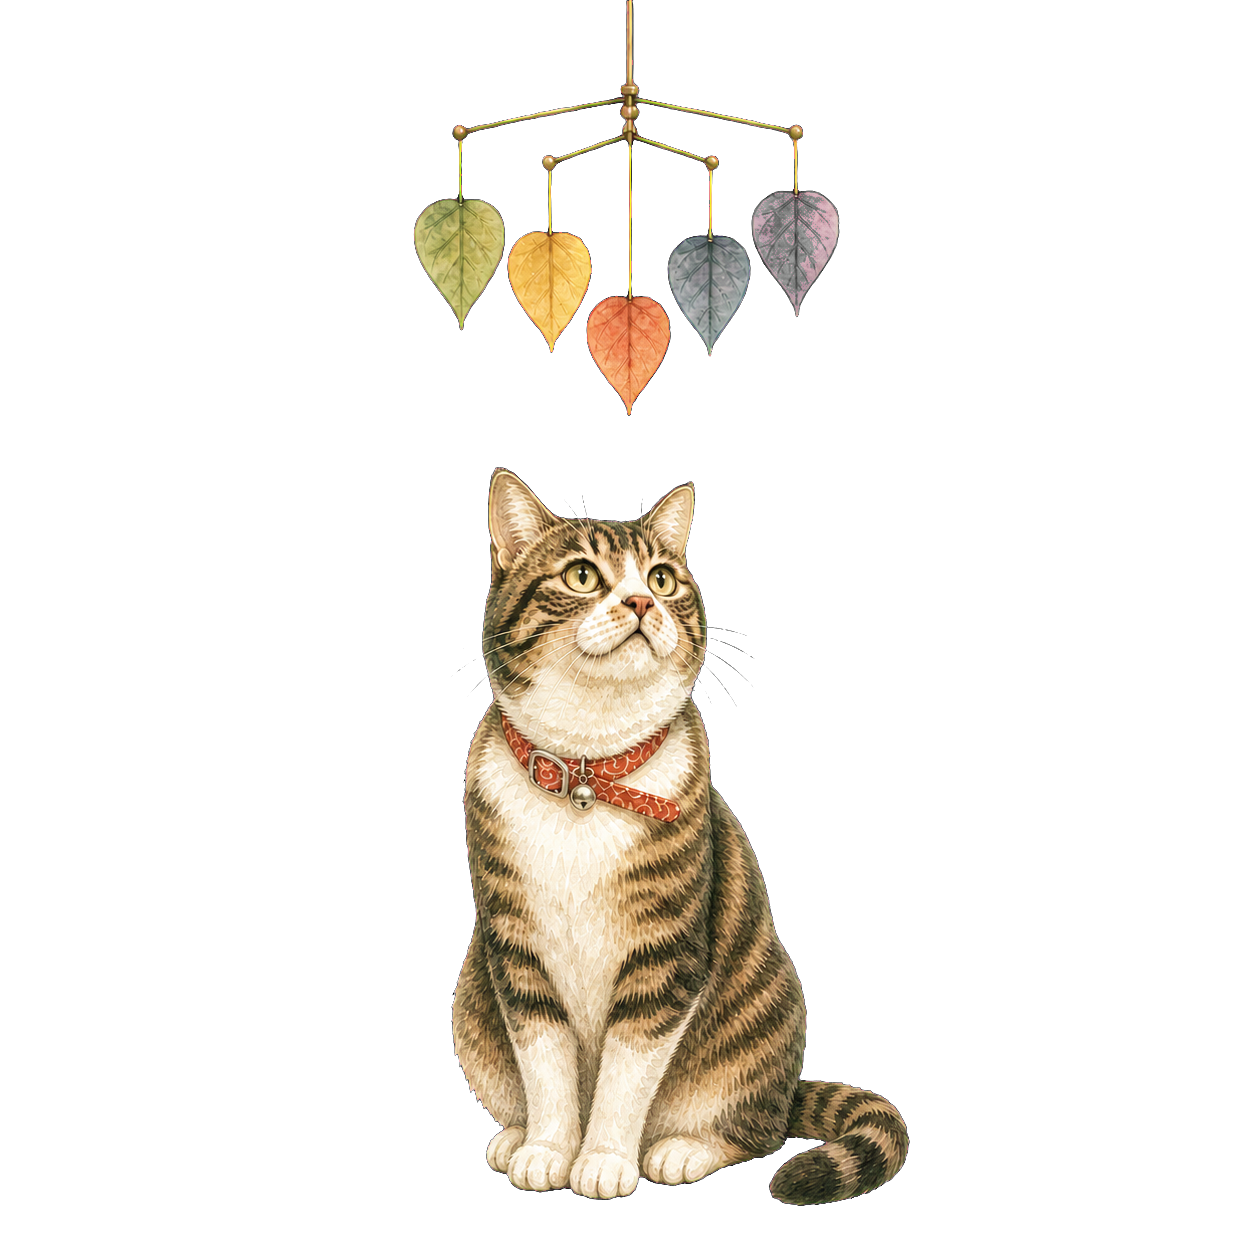
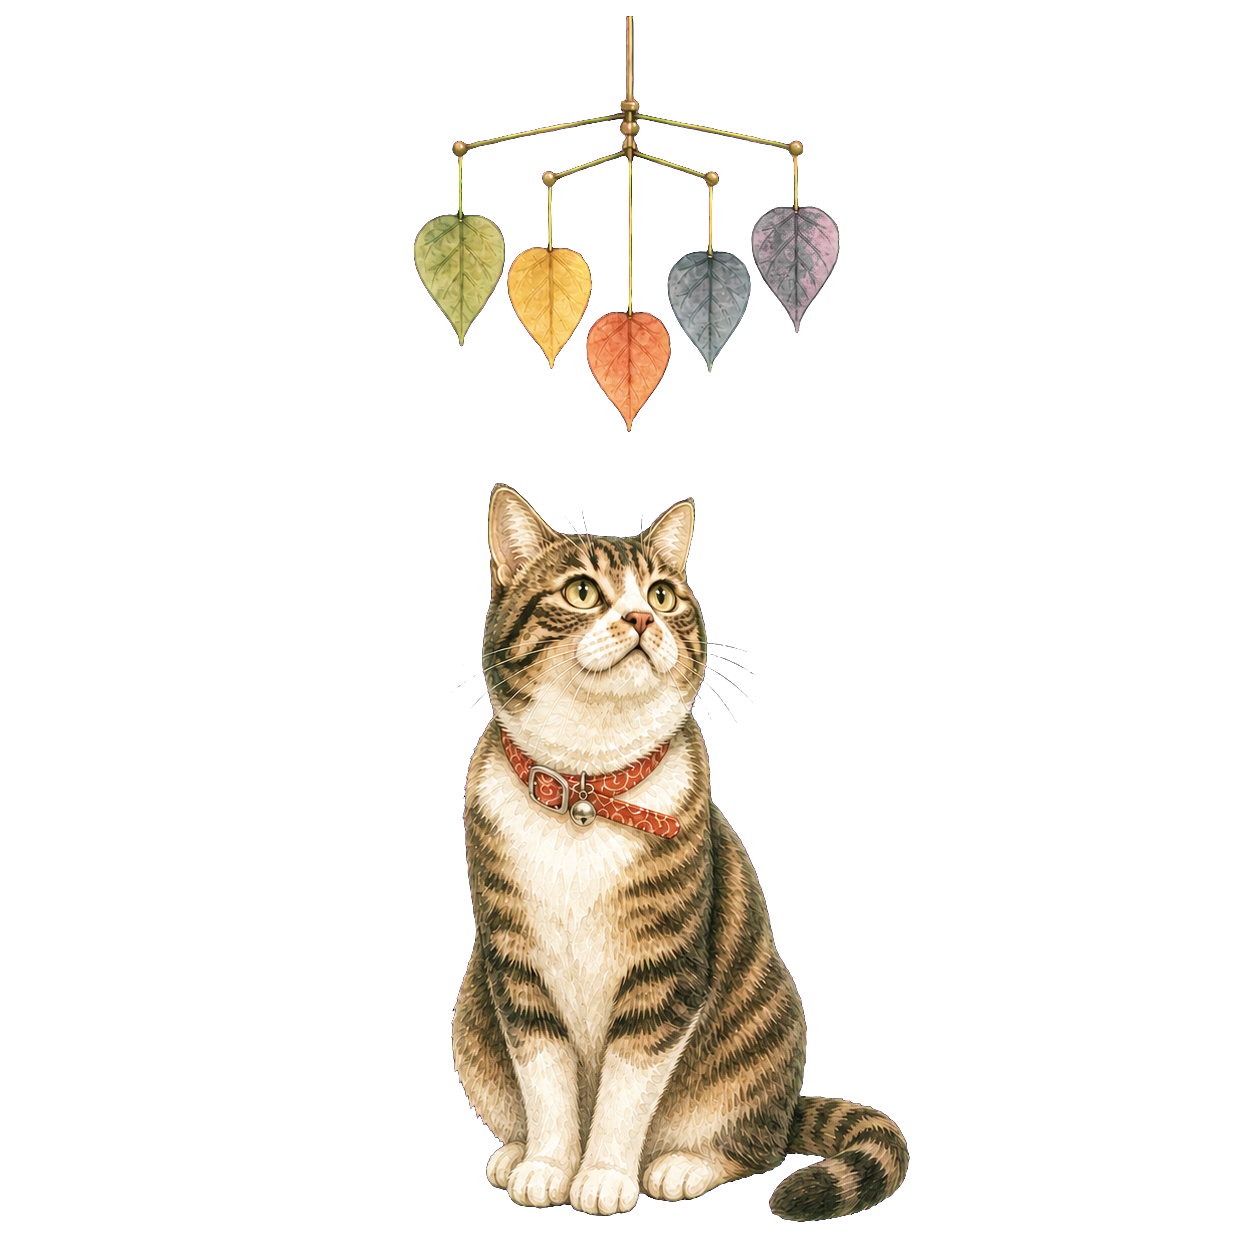
fix: align character conversion approval gates

Changed region(s): [[0.3421, 0.3732, 0.7464, 0.9952], [0.311, 0.0622, 0.6842, 0.3421], [0.4976, 0.0, 0.5287, 0.0311]]

diff --git a/app/tests/character-assets.test.js b/app/tests/character-assets.test.js
@@ -5,13 +5,24 @@ import { appendFile, mkdtemp, readFile, rm } from "node:fs/promises";
 import { tmpdir } from "node:os";
 import { join } from "node:path";
 import sharp from "sharp";
-import { convertCharacter } from "../../scripts/characters/convert-characters.mjs";
+import {
+  convertCharacter,
+  normalizeEncoderSettings,
+} from "../../scripts/characters/convert-characters.mjs";
 import { inspectCharacterAsset } from "../../scripts/characters/inspect-character.mjs";
 
 const SETTINGS = Object.freeze({
   quality: 82,
   alphaQuality: 100,
   effort: 6,
+});
+const ENCODER_SETTINGS = Object.freeze({
+  encoder: "sharp",
+  quality: 82,
+  alphaQuality: 100,
+  effort: 6,
+  metadata: "none",
+  size: 1024,
 });
 
 async function withTemporaryDirectory(run) {
@@ -145,6 +156,25 @@ test("T-005 F-016 converter rejects a delivery size other than 1024 before writi
       (error) => error?.code === "ENOENT",
     );
   });
+});
+
+test("T-005 F-016 normalizes the fixed encoder settings file for the converter", () => {
+  assert.deepEqual(normalizeEncoderSettings(ENCODER_SETTINGS), {
+    size: 1024,
+    settings: SETTINGS,
+  });
+
+  for (const mutation of [
+    { ...ENCODER_SETTINGS, encoder: "other" },
+    { ...ENCODER_SETTINGS, metadata: "copy" },
+    { ...ENCODER_SETTINGS, size: 512 },
+    { ...ENCODER_SETTINGS, extra: true },
+  ]) {
+    assert.throws(
+      () => normalizeEncoderSettings(mutation),
+      /CHARACTER_ASSET_INVALID/,
+    );
+  }
 });
 
 test("T-005 F-016 inspector rejects invalid format, geometry, alpha, and bounds", async () => {

diff --git a/app/tests/character-ledger.test.js b/app/tests/character-ledger.test.js
@@ -117,3 +117,14 @@ test("T-005 F-016 reached gates reject empty required evidence", () => {
     );
   }
 });
+
+test("T-005 F-016 technical approval keeps the accessibility release gate pending", () => {
+  const candidate = technicallyApprovedPilotLedger();
+  candidate.entries[0].accessibilityReviewStatus = "approved";
+
+  assert.throws(
+    () => validateScope(candidate, "pilot-converted"),
+    /CHARACTER_LEDGER_INVALID/,
+    "pilot-converted must not record accessibility approval before release",
+  );
+});

diff --git a/docs/superpowers/plans/2026-07-25-q012-character-assets.md b/docs/superpowers/plans/2026-07-25-q012-character-assets.md
@@ -107,6 +107,8 @@ rejectionReason, notes
 
 `productionStatus` is one of `brief`, `generated`, `art-approved`, `converted`, `technical-approved`, `released`. Output paths, hashes, dimensions, bytes, encoder data, and approval identity may be `null` until their owning stage; `validateLedgerScope` requires them at the corresponding gate.
 
+At `technical-approved`, `technicalReviewStatus` is exactly `approved` and `accessibilityReviewStatus` remains exactly `null`. The `release-assets` gate requires all 51 rows at that stage. Only after that gate passes may the release accessibility gate set every row to `released`, set `accessibilityReviewStatus` to `approved`, and replace `approvedBy` and `approvedAt` with the release approver and approval time.
+
 ---
 
 ### Task 1: Ledger Contract and 51-Row Seed
@@ -493,7 +495,7 @@ Expected: three valid 1024×1024 transparent WebP reports. Files over 250,000 by
 
 Compare PNG and WebP at 100%, 360px, and on light, mid-tone, and dark checker-backed cards. Approve only if watercolor edges, whiskers, eye detail, coat identity, prop identity, transparency, and full-body margins survive. If quality 82 is rejected, stop this plan and revise the approved T-005 design before choosing a different shared setting.
 
-Record Sharp and libvips versions, the exact settings object, delivery hash, byte length, dimensions, technical approval, accessibility approval, approver, and time in each pilot row. Set pilot rows to `technical-approved`.
+Record Sharp and libvips versions, the exact settings object, delivery hash, byte length, dimensions, technical approval, approver, and time in each pilot row. Set `technicalReviewStatus` to `approved`, keep `accessibilityReviewStatus` exactly `null`, and set the pilot rows to `technical-approved`.
 
 - [ ] **Step 4: Add the pilot fixture and verify the gate**
 
@@ -543,7 +545,7 @@ Run:
 node scripts/characters/validate-ledger.mjs baseline11
 ```
 
-Expected: FAIL with `CHARACTER_LEDGER_INVALID` naming the first unreleased single-factor row.
+Expected: FAIL with `CHARACTER_LEDGER_INVALID` naming the first single-factor row that is not yet `technical-approved`.
 
 - [ ] **Step 2: Generate and art-review rows 4–11**
 
@@ -718,7 +720,7 @@ git commit -m "feat: add third ten pair characters"
 **Interfaces:**
 
 - Consumes: catalog rows 42–51 and frozen settings.
-- Produces: all 51 approved masters and delivery assets.
+- Produces: all 51 approved masters and delivery assets, with all 51 ledger rows released after the pre-release asset and accessibility gates.
 
 - [ ] **Step 1: Run `node scripts/characters/validate-ledger.mjs pair04`**
 
@@ -732,9 +734,11 @@ For interpersonal scenes, represent the second party only through approved props
 
 Expected: ten valid reports and no changed encoder setting.
 
-- [ ] **Step 4: Review the full 51-character sheet and run the release asset gate**
+- [ ] **Step 4: Review the full 51-character sheet and run the pre-release asset gate**
 
 Require zero missing cats, repeated full compositions, anatomy failures, cropped parts, baked backgrounds, text, three-prop rows, or value stereotypes.
+
+Before running this gate, all 51 rows must have `productionStatus` set to `technical-approved`, `technicalReviewStatus` set to `approved`, and `accessibilityReviewStatus` kept exactly `null`.
 
 Run:
 
@@ -751,7 +755,25 @@ inspected 51 character assets
 invalid 0
 ```
 
-- [ ] **Step 5: Commit only batch 4 asset paths and ledger**
+- [ ] **Step 5: Complete the release accessibility gate**
+
+Only after the `release-assets` gate passes, human-review all 51 rows for accurate non-empty alt text, a usable visual alternative when the image is unavailable, and one-character delivery with exactly one approved cat asset per result.
+
+For every approved row, set `productionStatus` to `released`, set `accessibilityReviewStatus` to `approved`, and replace `approvedBy` and `approvedAt` with the release approver and release approval time.
+
+Run:
+
+```powershell
+node scripts/characters/validate-ledger.mjs release
+```
+
+Expected:
+
+```text
+character ledger release: PASS
+```
+
+- [ ] **Step 6: Commit only batch 4 asset paths and ledger**
 
 ```powershell
 git add -- docs/assets/character-production/ledger.json docs/assets/character-production/source-png app/assets/characters
@@ -777,6 +799,8 @@ git commit -m "feat: complete all fifty-one character assets"
 
 - Consumes: 51 released ledger rows, `TitleProfileDefinitions`, and `appMeta.characterManifestVersion`.
 - Produces: `generateCharacterManifest`, `validateCharacterManifest`, and `resolveCharacterEntry`.
+
+Task 10 must not begin until the Task 9 release accessibility gate has updated all 51 rows and `node scripts/characters/validate-ledger.mjs release` has passed.
 
 - [ ] **Step 1: Write the failing release manifest tests**
 
